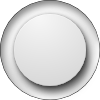
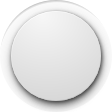
More testing on knob styles

diff --git a/src/ctl_knob.cpp b/src/ctl_knob.cpp
@@ -37,13 +37,18 @@ static gboolean
 calf_knob_expose (GtkWidget *widget, GdkEventExpose *event)
 {
     g_assert(CALF_IS_KNOB(widget));
-    
-    float widths[6]  = {0, 2.0, 3.0, 3.5, 3.5, 7};
-    float margins[6] = {0, 3.0, 2.8, 3.5, 4.0, 6.5};
-    float pins_m[6]  = {0, 6,   8,   8,   11,  16};
-    float pins_s[6]  = {0, 3,   4,   4,   4,   4};
-    
     CalfKnob *self = CALF_KNOB(widget);
+    CalfKnobClass *cls = CALF_KNOB_CLASS(GTK_OBJECT_GET_CLASS(widget));
+    GdkPixbuf *pixbuf = cls->knob_image[self->knob_size - 1];
+    gint iw = gdk_pixbuf_get_width(pixbuf);
+    gint ih = gdk_pixbuf_get_height(pixbuf);
+    
+    float widths[6]  = {0, 2.0, 2.5, 2.0, 2.5, 3.5};
+    float margins[6] = {0, 3.0, 5.0, 4.5, 6.0, 6.0};
+    float pins_m[6]  = {0, 6,   10,   10,   11,  13};
+    float pins_s[6]  = {0, 3,   4,   4,   4,   4};
+    int   addd[6]    = {0, 1, 2, 3, 4, 5};
+    
     GtkAdjustment *adj = gtk_range_get_adjustment(GTK_RANGE(widget));
     cairo_t *ctx = gdk_cairo_create(GDK_DRAWABLE(widget->window));
     
@@ -51,14 +56,10 @@ calf_knob_expose (GtkWidget *widget, GdkEventExpose *event)
     get_fg_color(widget, NULL, &r, &g, &b);
     
     int ox = widget->allocation.x, oy = widget->allocation.y;
-    ox += (widget->allocation.width - self->knob_size * 20) / 2;
-    oy += (widget->allocation.height - self->knob_size * 20) / 2;
-    int size  = self->knob_size * 20;
-    float rad;
-    if (self->knob_size > 1)
-        rad = size / 2;
-    else
-        rad = 12.5;
+    ox += (widget->allocation.width - iw) / 2;
+    oy += (widget->allocation.height - ih) / 2;
+    int size = iw;
+    float rad = size / 2;
     int from  = self->knob_type == 3 ? 270 : 135;
     int to    = self->knob_type == 3 ? -90 : 45;
     int phase = (adj->value - adj->lower) * 270 / (adj->upper - adj->lower) + 135;
@@ -111,84 +112,62 @@ calf_knob_expose (GtkWidget *widget, GdkEventExpose *event)
     }
     
     // draw background
-    gdk_draw_pixbuf(GDK_DRAWABLE(widget->window),
-                    widget->style->fg_gc[0],
-                    CALF_KNOB_CLASS(GTK_OBJECT_GET_CLASS(widget))->knob_image[self->knob_size - 1],
-                    0, 0, ox, oy,
-                    gdk_pixbuf_get_width(CALF_KNOB_CLASS(GTK_OBJECT_GET_CLASS(widget))->knob_image[self->knob_size - 1]),
-                    gdk_pixbuf_get_height(CALF_KNOB_CLASS(GTK_OBJECT_GET_CLASS(widget))->knob_image[self->knob_size - 1]),
-                    GDK_RGB_DITHER_NORMAL, 0, 0);
+    gdk_draw_pixbuf(GDK_DRAWABLE(widget->window), widget->style->fg_gc[0], pixbuf,
+                    0, 0, ox, oy, iw, ih, GDK_RGB_DITHER_NORMAL, 0, 0);
     
-    static const double dash[] = {3, 2};
-    cairo_set_line_width(ctx, widths[self->knob_size]);
-    if(self->knob_size > 1)
-        cairo_set_dash(ctx, dash, 2, 0);
+    float lwidth = widths[self->knob_size];
+    float lmarg  = margins[self->knob_size];
+    int   numadd = addd[self->knob_size];
+    
+    cairo_set_line_width(ctx, lwidth);
+    
+    cairo_set_line_cap(ctx, CAIRO_LINE_CAP_SQUARE);
     
     // draw unlit
     if (neg_b)
-        cairo_arc_negative (ctx, ox + rad, oy + rad, rad - margins[self->knob_size], from * (M_PI / 180.), to * (M_PI / 180.));
+        cairo_arc_negative (ctx, ox + rad, oy + rad, rad - lmarg, from * (M_PI / 180.), to * (M_PI / 180.));
     else
-        cairo_arc (ctx, ox + rad, oy + rad, rad - margins[self->knob_size], from * (M_PI / 180.), to * (M_PI / 180.));
-    cairo_set_source_rgba(ctx, 0, 0, 0, 0.22);//0, 0.1, 0.1);
+        cairo_arc (ctx, ox + rad, oy + rad, rad - lmarg, from * (M_PI / 180.), to * (M_PI / 180.));
+    cairo_set_source_rgba(ctx, r, g, b, 0.33);
     cairo_stroke(ctx);
     
-    
-    //cairo_set_line_width(ctx, 1);//widths[self->knob_size] - 2);
     // draw lit
-    float pos1 = (rad - margins[self->knob_size] + widths[self->knob_size] / 2.) / rad;
-    float pos2 = (rad - margins[self->knob_size]) / rad;
-    float pos3 = (rad - margins[self->knob_size] - widths[self->knob_size] / 2.) / rad;
-    cairo_pattern_t *pat = cairo_pattern_create_radial(ox + rad, oy + rad, 0, ox + rad, oy + rad, rad);
-    //cairo_pattern_add_color_stop_rgba(pat, pos1, 0, 0.9, 1, 0.75);
-    //cairo_pattern_add_color_stop_rgba(pat, pos2, 0,   1, 1, 1.);
-    //cairo_pattern_add_color_stop_rgba(pat, pos3, 0, 0.9, 1, 0.75);
-    //cairo_set_source(ctx, pat);
-    cairo_set_source_rgba(ctx, r, g, b, 1);//op * 0.66 + 0.33);
     if (neg_l)
-        cairo_arc_negative (ctx, ox + rad, oy + rad, rad - margins[self->knob_size], start * (M_PI / 180.), phase * (M_PI / 180.));
+        cairo_arc_negative (ctx, ox + rad, oy + rad, rad - lmarg, start * (M_PI / 180.), phase * (M_PI / 180.));
     else
-        cairo_arc (ctx, ox + rad, oy + rad, rad - margins[self->knob_size], start * (M_PI / 180.), phase * (M_PI / 180.));
+        cairo_arc (ctx, ox + rad, oy + rad, rad - lmarg, start * (M_PI / 180.), phase * (M_PI / 180.));
+    cairo_set_source_rgba(ctx, r, g, b, 1);
     cairo_stroke(ctx);
     
-    // draw light
-    //float x = ox + rad + (rad - margins[self->knob_size]) * cos(phase * (M_PI / 180.));
-    //float y = oy + rad + (rad - margins[self->knob_size]) * sin(phase * (M_PI / 180.));
-    //if (neg_b)
-        //cairo_arc_negative (ctx, ox + rad, oy + rad, rad - margins[self->knob_size], from * (M_PI / 180.), to * (M_PI / 180.));
-    //else
-        //cairo_arc (ctx, ox + rad, oy + rad, rad - margins[self->knob_size], from * (M_PI / 180.), to * (M_PI / 180.));
-    //pat = cairo_pattern_create_radial(x, y, widths[self->knob_size] / 2, x, y, widths[self->knob_size]);
-    //cairo_pattern_add_color_stop_rgba(pat, 0, 1, 1, 1, 1);
-    //cairo_pattern_add_color_stop_rgba(pat, 1, 0, 0.5, 0.8, 0.);
-    //cairo_set_source(ctx, pat);
-    //cairo_stroke(ctx);
+    cairo_set_line_cap(ctx, CAIRO_LINE_CAP_BUTT);
     
-    // draw shine
-    //cairo_rectangle(ctx, ox, oy, size, size);
-    //pat = cairo_pattern_create_radial(x, y, 0, x, y, widths[self->knob_size] * 1.5);
-    //cairo_pattern_add_color_stop_rgba(pat, 0, 0.8, 1, 1, 0.7);
-    //cairo_pattern_add_color_stop_rgba(pat, 1, 0, 0.75, 1, 0.);
-    //cairo_set_source(ctx, pat);
-    //cairo_fill(ctx);
-    
-    // draw other shine
-    //if (neg_l)
-        //cairo_arc_negative (ctx, ox + rad, oy + rad, rad - margins[self->knob_size] + widths[self->knob_size], start * (M_PI / 180.), phase * (M_PI / 180.));
-    //else
-        //cairo_arc (ctx, ox + rad, oy + rad, rad - margins[self->knob_size], start * (M_PI / 180.), phase * (M_PI / 180.));
-    //pos1 = (rad - margins[self->knob_size] + widths[self->knob_size]) / rad;
-    //pos2 = (rad - margins[self->knob_size]) / rad;
-    //pos3 = (rad - margins[self->knob_size] - widths[self->knob_size]) / rad;
-    //pat = cairo_pattern_create_radial(ox + rad, oy + rad, 0, ox + rad, oy + rad, rad);
-    //cairo_pattern_add_color_stop_rgba(pat, pos1,   0, 1, 1, 0.);
-    //cairo_pattern_add_color_stop_rgba(pat, pos2, 0.8, 1, 1, 0.6);
-    //cairo_pattern_add_color_stop_rgba(pat, pos3,   0, 1, 1, 0.);
-    //cairo_set_source(ctx, pat);
-    //cairo_set_line_width(ctx, widths[self->knob_size] * 2.);
-    //cairo_stroke(ctx);
-    
-     
-    cairo_pattern_destroy(pat);
+    cairo_save(ctx);
+    // draw dots
+    cairo_set_line_width(ctx, lwidth);
+    if (!self->knob_type) {
+        cairo_translate(ctx, ox + rad, oy + rad);
+        cairo_rotate(ctx, 225. * (M_PI / 180.));
+        for (int i = 0; i < (5 + 4 * numadd); i++) {
+            float ang = 135. + i * 67.5 / (numadd + 1);
+            if (!(i % (numadd + 1))) {
+                // fat tick
+                cairo_move_to(ctx, 0, -rad + lmarg - lwidth * 1.5);
+                cairo_set_line_width(ctx, lwidth);
+            } else {
+                // thin tick 
+                cairo_move_to(ctx, 0, -rad + lmarg - lwidth * 1.25);
+                cairo_set_line_width(ctx, lwidth / 2);
+            }
+            cairo_line_to(ctx, 0, -rad + lmarg - lwidth / 2);
+            if ((self->knob_type == 0 and (ang <= phase and phase > 135))) 
+                cairo_set_source_rgba(ctx, r, g, b, 1);
+            else
+                cairo_set_source_rgba(ctx, r, g, b, 0.33);
+            cairo_stroke(ctx);
+            cairo_rotate(ctx, 67.5 / (numadd + 1) * (M_PI / 180.));
+        }
+    }
+    cairo_restore(ctx);
     
     // draw pin
     float x1 = ox + rad + (rad - pins_m[self->knob_size]) * cos(phase * (M_PI / 180.));
@@ -197,9 +176,8 @@ calf_knob_expose (GtkWidget *widget, GdkEventExpose *event)
     float y2 = oy + rad + (rad - pins_s[self->knob_size] - pins_m[self->knob_size]) * sin(phase * (M_PI / 180.));
     cairo_move_to(ctx, x1, y1);
     cairo_line_to(ctx, x2, y2);
-    cairo_set_dash(ctx, dash, 0, 0);
     cairo_set_source_rgba(ctx, 0, 0.11, 0.11, 0.99);
-    cairo_set_line_width(ctx, widths[self->knob_size] / 2.);
+    cairo_set_line_width(ctx, lwidth / 2.);
     cairo_stroke(ctx);
     cairo_destroy(ctx);
     
@@ -214,10 +192,9 @@ calf_knob_size_request (GtkWidget *widget,
 
     CalfKnob *self = CALF_KNOB(widget);
 
-    // width/height is hardwired at 40px now
-    // is now chooseable by "size" value in XML (1-4)
-    requisition->width  = 20 * self->knob_size;
-    requisition->height = 20 * self->knob_size;
+    CalfKnobClass * cls = CALF_KNOB_CLASS(GTK_OBJECT_GET_CLASS(widget));
+    requisition->width  = gdk_pixbuf_get_width(cls->knob_image[self->knob_size - 1]);
+    requisition->height = gdk_pixbuf_get_height(cls->knob_image[self->knob_size - 1]);
 }
 
 static void
